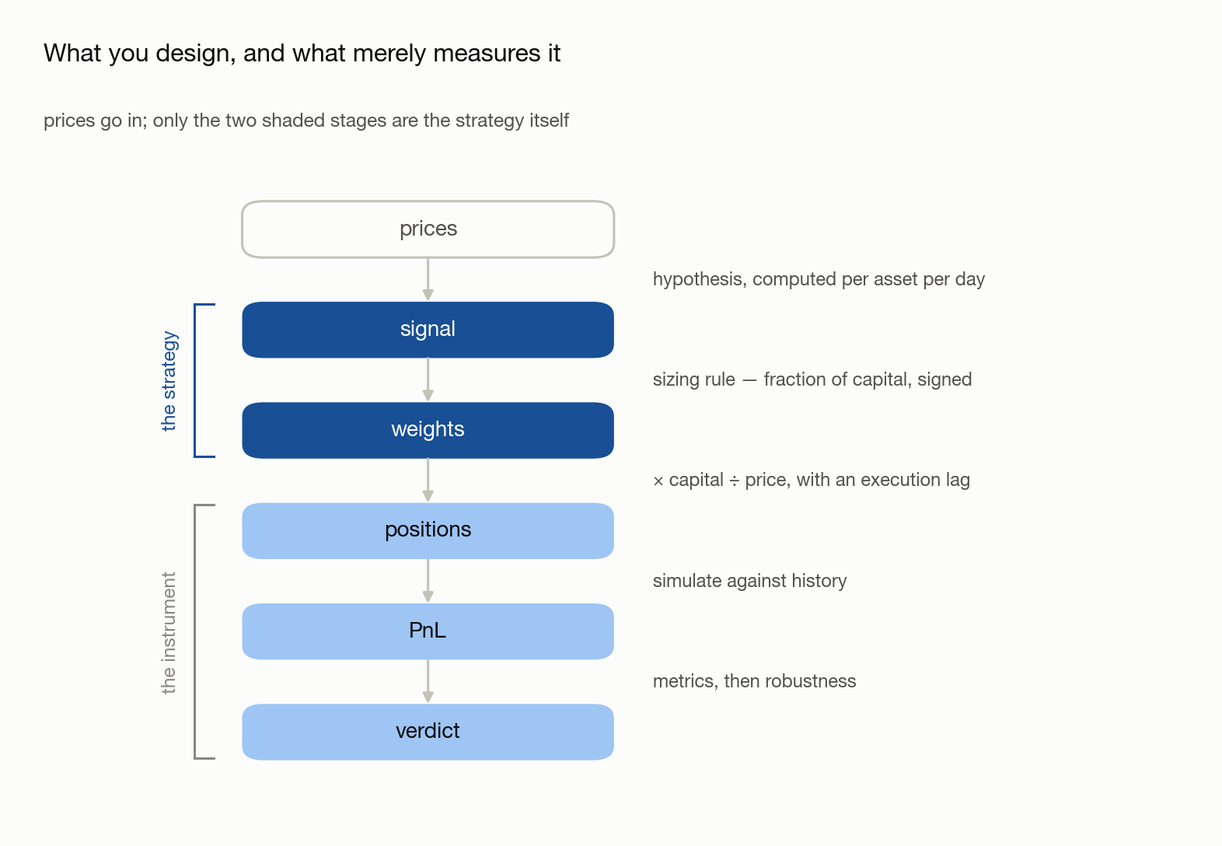
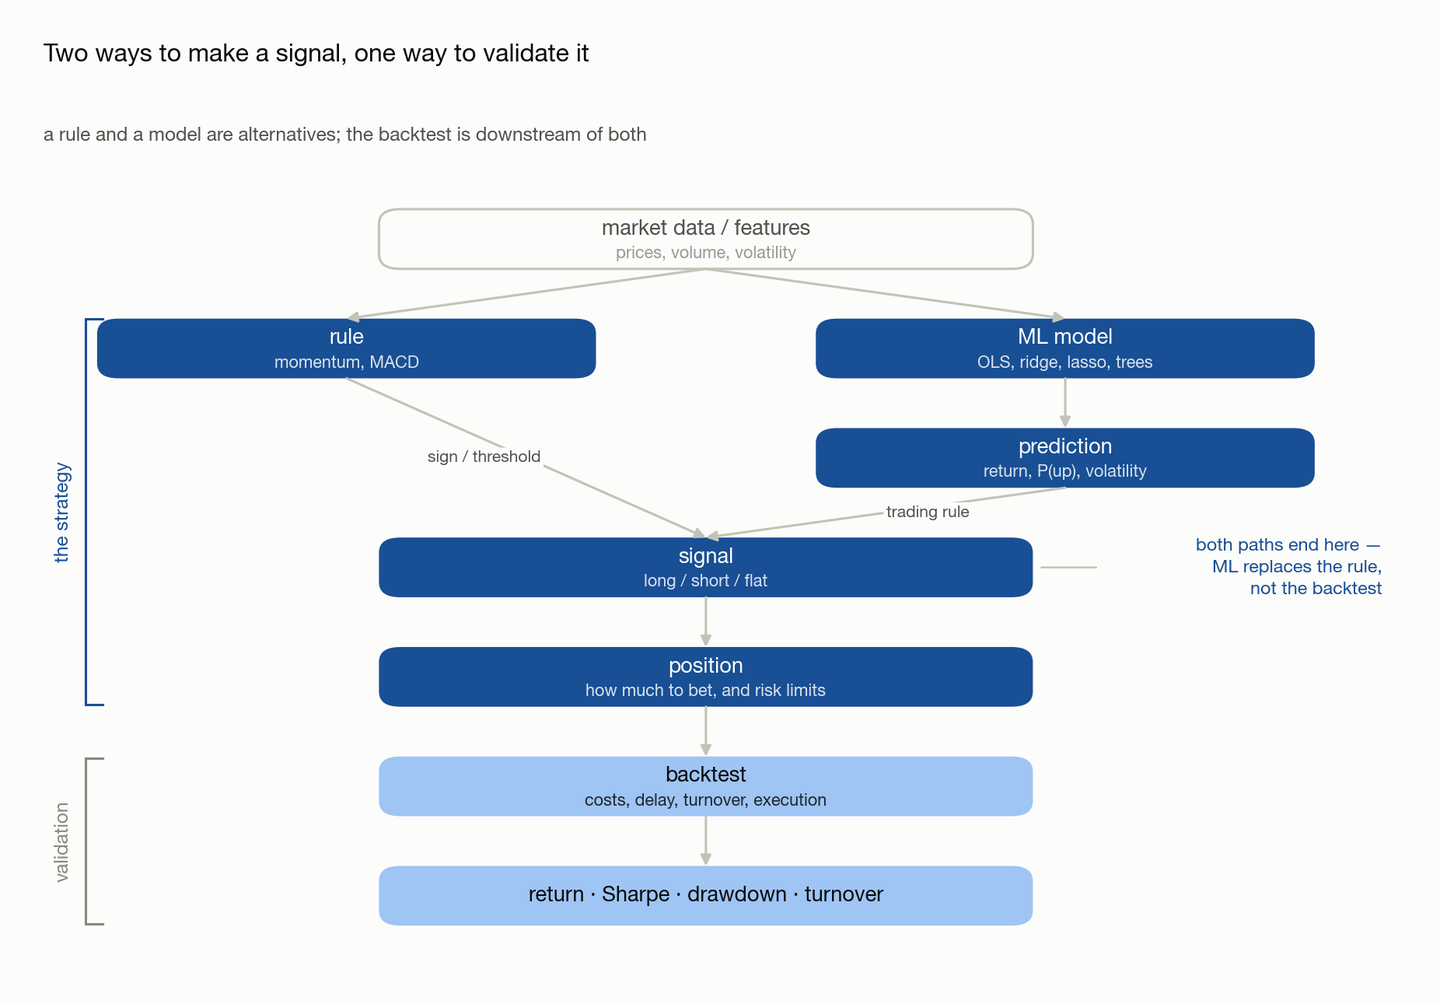
Make the prediction-to-signal chain the spine of 00-pipeline
A model generates signals; it does not validate them. That was the wrong
way round before, and it changes the shape of the pipeline: a rule and a
model are two paths to the same object, converging on one signal node,
with everything downstream shared.

Redraw the figure as that branch-and-converge, and lead the chapter with
the full chain -- features, rule or model, prediction, signal, position,
backtest, metrics -- as a table of what each layer does and outputs.

Separate prediction from signal explicitly. A prediction is a number
about the future and carries no instruction; a trading rule with a
threshold turns it into a direction, and that threshold is where costs
enter the decision without retraining anything. The layers stay
meaningful even when a classifier appears to emit a direction directly.

Add the four levels of validation -- model, signal, strategy, robustness
-- and state that each arrow between them loses candidates: test accuracy
is not economic value, which is not profit after costs, which is not
stability. Build order gains a final stage for trying a model, after the
rule-based baseline is understood well enough to be a baseline.

diff --git a/docs/figures/make_figures.py b/docs/figures/make_figures.py
@@ -390,68 +390,91 @@ def signal_kernels(mode):
 
 # ------------------------------------------------- fig: the strategy pipeline
 def strategy_pipeline(mode):
-    """00-pipeline -- what the strategy is, and what merely measures it.
+    """00-pipeline -- the two ways a signal gets made, and what validates it.
 
-    Schematic. The point is the boundary: the first two transforms are the
-    thing you design, the rest is the ruler you judge it with.
+    Schematic. The point is that a rule and an ML model are alternative ways
+    of producing the same object -- a signal -- and that the backtest sits
+    downstream of both, validating the whole strategy rather than the model.
     """
     t = THEMES[mode]
-    stages = ["prices", "signal", "weights", "positions", "PnL", "verdict"]
-    edges = ["hypothesis, computed per asset per day",
-             "sizing rule — fraction of capital, signed",
-             "× capital ÷ price, with an execution lag",
-             "simulate against history",
-             "metrics, then robustness"]
-    # prices are the input; the strategy is signal + sizing, the rest measures it
-    STRAT = (1, 2)
+    W, H = 4.6, 0.56                    # shared-spine box size
+    BW = 3.5                            # branch box width
+    CX, LX, RX = 4.7, 2.15, 7.25        # centre, left-branch, right-branch
 
-    fig, ax = plt.subplots(figsize=(7.6, 5.6))
+    #  (x, y, w, label, sublabel, kind)
+    nodes = [
+        (CX, 6.0, W,  "market data / features", "prices, volume, volatility", "input"),
+        (LX, 4.9, BW, "rule", "momentum, MACD", "strat"),
+        (RX, 4.9, BW, "ML model", "OLS, ridge, lasso, trees", "strat"),
+        (RX, 3.8, BW, "prediction", "return, P(up), volatility", "strat"),
+        (CX, 2.7, W,  "signal", "long / short / flat", "strat"),
+        (CX, 1.6, W,  "position", "how much to bet, and risk limits", "strat"),
+        (CX, 0.5, W,  "backtest", "costs, delay, turnover, execution", "instr"),
+        (CX, -0.6, W, "return · Sharpe · drawdown · turnover", "", "instr"),
+    ]
+    edges = [(0, 1, None), (0, 2, None), (1, 4, "sign / threshold"),
+             (2, 3, None), (3, 4, "trading rule"), (4, 5, None),
+             (5, 6, None), (6, 7, None)]
+
+    fig, ax = plt.subplots(figsize=(9.0, 6.6))
     fig.patch.set_facecolor(t["surface"])
     ax.set_facecolor(t["surface"])
-    ax.set_xlim(0, 7.6)
-    ax.set_ylim(-0.7, len(stages) - 0.3)
+    ax.set_xlim(0, 9.6)
+    ax.set_ylim(-1.25, 6.6)
     ax.axis("off")
 
-    box_x, box_w, box_h = 1.35, 2.45, 0.52
-    for i, name in enumerate(stages):
-        y = len(stages) - 1 - i
-        owned = STRAT[0] <= i <= STRAT[1]
-        face = t["ramp"][5] if owned else t["ramp"][1]
-        label = t["surface"] if owned else t["ink"]
-        patch = dict(facecolor=face, edgecolor="none")
-        if i == 0:                                    # input, not a stage you own
-            patch = dict(facecolor=t["surface"], edgecolor=t["baseline"], linewidth=1.1)
-            label = t["ink_secondary"]
+    face = {"input": None, "strat": t["ramp"][5], "instr": t["ramp"][1]}
+    for x, y, w, label, sub, kind in nodes:
+        if kind == "input":
+            style = dict(facecolor=t["surface"], edgecolor=t["baseline"], linewidth=1.1)
+            ink, subink = t["ink_secondary"], t["muted"]
+        else:
+            style = dict(facecolor=face[kind], edgecolor="none")
+            ink = t["surface"] if kind == "strat" else t["ink"]
+            subink = ink
         ax.add_patch(FancyBboxPatch(
-            (box_x, y - box_h / 2), box_w, box_h,
-            boxstyle="round,pad=0.02,rounding_size=0.14", zorder=3, **patch))
-        ax.text(box_x + box_w / 2, y, name, ha="center", va="center",
-                color=label, fontsize=10, fontweight="600", zorder=4)
+            (x - w / 2, y - H / 2), w, H,
+            boxstyle="round,pad=0.02,rounding_size=0.15", zorder=3, **style))
+        dy = 0.10 if sub else 0.0
+        ax.text(x, y + dy, label, ha="center", va="center",
+                color=ink, fontsize=9.8, fontweight="600", zorder=4)
+        if sub:
+            ax.text(x, y - 0.145, sub, ha="center", va="center",
+                    color=subink, fontsize=7.8, alpha=0.85, zorder=4)
 
-        if i < len(edges):
-            ax.annotate("", xy=(box_x + box_w / 2, y - 1 + box_h / 2 + 0.02),
-                        xytext=(box_x + box_w / 2, y - box_h / 2 - 0.02),
-                        arrowprops=dict(arrowstyle="-|>", color=t["baseline"],
-                                        linewidth=1.1, shrinkA=0, shrinkB=0))
-            ax.text(box_x + box_w + 0.28, y - 0.5, edges[i], ha="left", va="center",
-                    color=t["ink_secondary"], fontsize=8.5)
+    for a, b, note in edges:
+        xa, ya, _, _, _, _ = nodes[a]
+        xb, yb, _, _, _, _ = nodes[b]
+        ax.annotate("", xy=(xb, yb + H / 2 + 0.02), xytext=(xa, ya - H / 2 - 0.02),
+                    arrowprops=dict(arrowstyle="-|>", color=t["baseline"], linewidth=1.1,
+                                    shrinkA=0, shrinkB=0,
+                                    connectionstyle="arc3,rad=0"))
+        if note:
+            ax.text((xa + xb) / 2 + (0.30 if xb < xa else -0.30),
+                    (ya + yb) / 2, note, ha="center", va="center",
+                    color=t["ink_secondary"], fontsize=7.6, rotation=0,
+                    bbox=dict(boxstyle="round,pad=0.18", facecolor=t["surface"],
+                              edgecolor="none"), zorder=5)
 
-    # brackets: what you design, versus what measures it
-    def bracket(top_i, bot_i, text, colour):
-        y0 = len(stages) - 1 - bot_i - box_h / 2
-        y1 = len(stages) - 1 - top_i + box_h / 2
-        x = box_x - 0.34
-        ax.plot([x + 0.13, x, x, x + 0.13], [y1, y1, y0, y0],
-                color=colour, linewidth=1.1, solid_joinstyle="miter", zorder=3)
-        ax.text(x - 0.16, (y0 + y1) / 2, text, ha="center", va="center",
-                rotation=90, color=colour, fontsize=8.8, fontweight="600")
+    # the correction this figure exists to make
+    ax.text(9.5, 2.7, "both paths end here —\nML replaces the rule,\nnot the backtest",
+            ha="right", va="center", color=t["ramp"][5], fontsize=8.4,
+            fontweight="600", linespacing=1.5)
+    ax.annotate("", xy=(CX + W / 2 + 0.05, 2.7), xytext=(7.5, 2.7),
+                arrowprops=dict(arrowstyle="-", color=t["baseline"], linewidth=0.9))
 
-    bracket(STRAT[0], STRAT[1], "the strategy", t["ramp"][5])
-    bracket(STRAT[1] + 1, len(stages) - 1, "the instrument", t["muted"])
+    ax.plot([0.42, 0.30, 0.30, 0.42], [5.2, 5.2, 1.32, 1.32],
+            color=t["ramp"][5], linewidth=1.1, solid_joinstyle="miter", zorder=3)
+    ax.text(0.14, 3.26, "the strategy", ha="center", va="center", rotation=90,
+            color=t["ramp"][5], fontsize=8.8, fontweight="600")
+    ax.plot([0.42, 0.30, 0.30, 0.42], [0.78, 0.78, -0.88, -0.88],
+            color=t["muted"], linewidth=1.1, solid_joinstyle="miter", zorder=3)
+    ax.text(0.14, -0.05, "validation", ha="center", va="center", rotation=90,
+            color=t["muted"], fontsize=8.8, fontweight="600")
 
-    titles(ax, t, "What you design, and what merely measures it",
-           "prices go in; only the two shaded stages are the strategy itself")
-    fig.tight_layout(rect=(0, 0, 1, 0.93))
+    titles(ax, t, "Two ways to make a signal, one way to validate it",
+           "a rule and a model are alternatives; the backtest is downstream of both")
+    fig.tight_layout(rect=(0, 0, 1, 0.94))
     save(fig, t, f"strategy-pipeline-{mode}.png")
 
 

diff --git a/docs/00-pipeline.md b/docs/00-pipeline.md
@@ -1,91 +1,105 @@
 # 00 · How a Strategy Is Built
 
-> - **Answers:** what *strategy*, *signal*, *momentum* and *backtest* each mean, how they nest, and the order the pieces get built in.
+> - **Answers:** what *prediction*, *signal*, *position*, *strategy* and *backtest* each mean, how they chain, and where a model enters.
 > - **Prerequisites:** [01 · What Is a CTA Strategy](01-what-is-cta.md).
 > - **Read it when:** before [02](02-building-signals.md), and again whenever you lose track of which stage a problem belongs to.
 
-**Orientation, not a step in the sequence.** The numbered chapters each go deep on one stage; this 
+**Orientation, not a step in the sequence.** The numbered chapters each go deep on one stage; this
 maps them onto one another so you can see what is being built and why in that order.
 
 ---
 
-## 1. Four Words That Get Used Loosely
-
-**Definition (Signal).** A *signal* is a number computed for each asset on each day, expressing a
-hypothesis about that asset's future return. It ranks or scores — it does not say how much to buy.
-
-**Definition (Momentum).** *Momentum* is one particular hypothesis — that recent relative
-performance persists. It is therefore one **family of signals**, not a synonym for signal.
-
-**Definition (Sizing rule).** A *sizing rule* converts signals into **weights**: what fraction of
-capital each asset should carry, including sign.
-
-**Definition (Strategy).** A *strategy* is a signal plus a sizing rule — together, a complete
-mapping from observable history to a position in every market, every day.
-
-**Definition (Backtest).** A *backtest* is a simulation that applies a strategy's positions to
-historical prices and returns the profit and loss it would have produced. It is a **measuring
-instrument**, not part of the strategy.
-
-They nest like this — momentum sits three levels down, which is why "my momentum strategy lost
-money" is an ambiguous sentence:
-
-```text
-strategy
- ├── signal ─────────── momentum is one choice here
- │                      (others: carry, value, mean reversion)
- └── sizing rule ────── equal weight, risk parity, signal-proportional
-
-backtest                measures a strategy; interchangeable with it
- └── metrics ────────── Sharpe, drawdown, turnover
-```
-
-| Term                  | Answers                        | Output                         |
-| --------------------- | ------------------------------ | ------------------------------ |
-| **Signal**      | which assets look attractive   | one number per asset per day   |
-| **Sizing rule** | how much capital each one gets | one weight per asset per day   |
-| **Strategy**    | signal + sizing                | one position per asset per day |
-| **Backtest**    | what would this have earned    | a PnL series                   |
-| **Metrics**     | was that any good              | Sharpe, drawdown, turnover     |
-
-## 2. Why the Backtest Sits Outside the Strategy
-
-**Claim.** The backtester must not know which signal it is running.
-
-This is a design constraint, not a derivation. Two things follow from it, and both are the reason
-to accept it:
-
-- **You can change one without touching the other.** A new hypothesis means editing the signal
-  function alone; a fee model means editing the simulator alone. If the two are entangled, every
-  experiment risks breaking the measuring instrument, and you can no longer tell whether a result
-  moved because the idea changed or because the ruler did.
-- **It keeps the comparison honest.** Two signals judged by the *same* simulator differ only in the
-  signal. If each carries its own execution assumptions, the comparison silently measures those
-  assumptions too.
-
-**Note.** The practical test: if you cannot swap the signal by changing one function, the
-separation has leaked. In this project it holds — the multi-asset backtester is a loop over the
-single-asset one and contains no strategy logic at all. See
-[Backtest Prototype — Implementation Notes](../Backtest_prototype/Backtests.md).
-
-## 3. The Build Order
-
-Each stage consumes the previous stage's output. The strategy is the first half; the second half
-only measures it.
+## 1. The Chain, End to End
 
 <picture>
   <source media="(prefers-color-scheme: dark)" srcset="figures/strategy-pipeline-dark.png">
-  <img alt="A vertical pipeline of six stages. Prices feed a signal, the signal feeds weights, weights feed positions, positions feed a PnL series, and the PnL feeds metrics and then a robustness verdict. A bracket marks the signal and weights stages as the strategy — the part you design — and the positions, PnL and metrics stages as the measuring instrument" src="figures/strategy-pipeline-light.png">
+  <img alt="Market data and features feed two alternative paths. On the left a rule such as momentum or MACD produces a signal directly by sign or threshold. On the right a machine-learning model produces a prediction — future return, probability of a rise, or volatility — which a trading rule then converts into the same signal. Both paths converge on one signal node of long, short or flat, which feeds position sizing and risk limits, then the backtest with costs, delay and turnover, and finally return, Sharpe, drawdown and turnover. A bracket marks everything down to position as the strategy, and the backtest and metrics as validation" src="figures/strategy-pipeline-light.png">
 </picture>
 
-| # | Stage                                          | What happens                                                           | Chapter                               |
-| - | ---------------------------------------------- | ---------------------------------------------------------------------- | ------------------------------------- |
-| 0 | **Validate the data**                    | Confirm prices are continuous and corporate actions are adjusted       | [100](100-dataset.md)                  |
-| 1 | **State a hypothesis, compute a signal** | Turn an intuition into a number, then test that it carries information | [02](02-building-signals.md)           |
-| 2 | **Size the positions**                   | Signal → weights → dollars → shares                                 | [03](03-from-signal-to-position.md)    |
-| 3 | **Simulate**                             | Apply the positions to history with realistic timing                   | [04](04-understanding-backtesting.md)  |
-| 4 | **Evaluate**                             | Reduce the PnL series to numbers you can judge                         | [05](05-evaluating-performance.md)     |
-| 5 | **Attack the result**                    | Ask how much of it is signal and how much is search                    | [06](06-overfitting-and-robustness.md) |
+In one line: **a model finds the pattern, a prediction states the judgement, a signal picks the
+direction, a position sizes the bet, and the backtest asks whether any of it survives.**
+
+| Layer | What it does | Output | Example |
+| --- | --- | --- | --- |
+| **Features** | describe the market | prices, volume, volatility | 21-day realised vol |
+| **Rule** *or* **model** | encode or learn a regularity | a number | MACD; ridge regression |
+| **Prediction** | state a judgement about the future | expected return, P(up), expected vol | `+0.8%` next week |
+| **Signal** | turn that judgement into a direction | `+1` / `−1` / `0` | long if prediction > 1% |
+| **Position** | decide how much to bet | a weight, after risk limits | 30% of capital, long |
+| **Backtest** | apply it all to history under real constraints | a PnL series | after costs and delay |
+| **Metrics** | judge the PnL | Sharpe, drawdown, turnover, hit rate | Sharpe 0.4, −18% |
+
+## 2. Where a Model Enters, and Where It Does Not
+
+**Definition (Prediction).** A *prediction* is a model's estimate of a future quantity — next
+period's return, the probability of a rise, expected volatility. It is a number about the world,
+carrying no instruction.
+
+**Definition (Signal).** A *signal* is a decision: long, short, or flat. Converting a prediction
+into one requires a **trading rule** — a threshold, a sign, a ranking.
+
+```python
+prediction = model.predict(features)
+
+if   prediction >  0.01: signal =  1     # long
+elif prediction < -0.01: signal = -1     # short
+else:                    signal =  0     # flat
+```
+
+**Note (Why keep them apart).** The threshold is a choice, not a model output, and it is where
+transaction costs enter the decision: widening the dead band trades hit rate for turnover without
+retraining anything. Collapse prediction and signal into one step and that dial disappears.
+
+**Note (Even when a model outputs a direction).** Some models classify rather than regress, and
+appear to emit a signal directly. The layers still exist and are still worth separating:
+
+```text
+P(up) = 70%          prediction   — what the model believes
+long                 signal       — the direction that belief implies
+30% of capital       position     — how much that belief is worth betting
++0.4% after fees     result       — what the market paid for it
+```
+
+**Claim.** A model replaces the rule, not the backtest.
+
+Momentum, MACD and a gradient-boosted tree are alternative ways of producing the same object — a
+signal. They sit at the same point in the chain and are judged the same way. What follows the
+signal (sizing, costs, execution, metrics) is unchanged, which is precisely what makes a rule and a
+model comparable at all. If adopting a model required a different backtester, any performance
+difference would be uninterpretable.
+
+**Note.** So the constraint from the rule-based case survives intact: the backtester must not know
+where the signal came from. In this project it holds — the multi-asset backtester is a loop over
+the single-asset one and contains no strategy logic. See
+[Backtest Prototype — Implementation Notes](../Backtest_prototype/Backtests.md).
+
+## 3. Four Levels of Validation
+
+Each layer is tested on its own terms, and passing one says nothing about the next.
+
+| Level | Question | Typical measure | Where |
+| --- | --- | --- | --- |
+| **Model** | does the prediction track the outcome? | test IC, MSE, accuracy | out-of-sample only |
+| **Signal** | is the direction right, and tradeable? | bucket monotonicity, turnover | [02 § 4](02-building-signals.md) |
+| **Strategy** | does it survive real constraints? | Sharpe, drawdown, return after costs | [04](04-understanding-backtesting.md), [05](05-evaluating-performance.md) |
+| **Robustness** | does it persist? | across years, markets, parameters | [06](06-overfitting-and-robustness.md) |
+
+**Note (Each arrow loses candidates).** High test accuracy is not economic value; economic value is
+not profit after costs; profit after costs is not stability out of sample. A model can predict
+direction 55% of the time and still lose money, because the 45% it gets wrong are the larger moves,
+or because acting on it every day costs more than the edge.
+
+## 4. The Build Order
+
+| # | Stage | What happens | Chapter |
+| --- | --- | --- | --- |
+| 0 | **Validate the data** | Confirm prices are continuous and corporate actions are adjusted | [100](100-dataset.md) |
+| 1 | **State a hypothesis, compute a signal** | Turn an intuition into a number, then test that it carries information | [02](02-building-signals.md) |
+| 2 | **Size the positions** | Signal → weights → dollars → shares | [03](03-from-signal-to-position.md) |
+| 3 | **Simulate** | Apply the positions to history with realistic timing | [04](04-understanding-backtesting.md) |
+| 4 | **Evaluate** | Reduce the PnL series to numbers you can judge | [05](05-evaluating-performance.md) |
+| 5 | **Attack the result** | Ask how much of it is signal and how much is search | [06](06-overfitting-and-robustness.md) |
+| 6 | **Try a model** | Ask whether a learned prediction beats the rule — same sizing, same backtest | — |
 
 **Note (Stage 0 is not optional).** Every later stage inherits whatever is wrong with the data. An
 unadjusted split is the largest move in the sample by construction, so a trend follower reads it as
@@ -96,19 +110,24 @@ buckets by signal value and look at the mean forward return per bucket. It is ch
 backtest, and a monotone staircase is much harder to fool yourself with than a rising equity curve.
 A signal that fails here will not be rescued by anything downstream.
 
-## 4. Where Each Stage Fails
+**Note (Stage 6 comes last for a reason).** A model is only worth testing once the rule-based
+version, its costs and its failure modes are understood — otherwise there is no baseline to beat
+and no way to tell whether the model added value or merely added parameters.
+
+## 5. Where Each Stage Fails
 
 The stages fail in different ways, and the symptoms are easy to misattribute — the most common
 mistake is reading a data defect as a code bug.
 
-| Stage      | Failure                     | What you see                        | Where it is treated                   |
-| ---------- | --------------------------- | ----------------------------------- | ------------------------------------- |
-| Data       | Unadjusted corporate action | A vertical step in the equity curve | [100 § 1.1](100-dataset.md)           |
-| Signal     | No information              | Flat or non-monotone buckets        | [02 § 4](02-building-signals.md)      |
-| Sizing     | Exposure not what you think | Gross or net drifts from target     | [03](03-from-signal-to-position.md)    |
-| Simulation | Look-ahead bias             | Implausibly smooth, high Sharpe     | [04](04-understanding-backtesting.md)  |
-| Evaluation | One number hides the path   | Good Sharpe, unlivable drawdown     | [05](05-evaluating-performance.md)     |
-| Robustness | Parameters were searched    | Result vanishes out of sample       | [06](06-overfitting-and-robustness.md) |
+| Stage | Failure | What you see | Where it is treated |
+| --- | --- | --- | --- |
+| Data | Unadjusted corporate action | A vertical step in the equity curve | [100 § 1.1](100-dataset.md) |
+| Signal | No information | Flat or non-monotone buckets | [02 § 4](02-building-signals.md) |
+| Sizing | Exposure not what you think | Gross or net drifts from target | [03](03-from-signal-to-position.md) |
+| Simulation | Look-ahead bias | Implausibly smooth, high Sharpe | [04](04-understanding-backtesting.md) |
+| Evaluation | One number hides the path | Good Sharpe, unlivable drawdown | [05](05-evaluating-performance.md) |
+| Robustness | Parameters were searched | Result vanishes out of sample | [06](06-overfitting-and-robustness.md) |
+| Model | Fitted to the sample | Good IC in train, none in test | out-of-sample split |
 
 **Note.** The order is forced in one direction — you cannot evaluate before simulating, or simulate
 before sizing. The one shortcut is that stage 1 can be validated *without* stages 2–4, and it
@@ -118,13 +137,15 @@ should be.
 
 ## Common pitfalls
 
-| Belief                                         | Correction                                                                             |
-| ---------------------------------------------- | -------------------------------------------------------------------------------------- |
-| "Momentum is a strategy."                      | It is a hypothesis, so a family of signals. A strategy also needs a sizing rule.       |
-| "The backtest is part of the strategy."        | It is the instrument that measures one. Changing it changes your ruler, not your idea. |
-| "A signal is good if the backtest looks good." | Test the signal on its own first; an equity curve is far easier to rationalize.        |
-| "Bad data makes results look bad."             | An unadjusted split usually makes them look*better*.                                 |
-| "Fix the numbers at the end."                  | Every stage inherits the previous one's defects. Nothing downstream repairs stage 0.   |
+| Belief | Correction |
+| --- | --- |
+| "Momentum is a strategy." | It is a hypothesis, so a family of signals. A strategy also needs a sizing rule. |
+| "ML validates the signal." | ML *produces* signals. The backtest validates the whole strategy. |
+| "A prediction is a signal." | A prediction is a number about the future; a signal is a decision. A trading rule sits between them. |
+| "High accuracy means it makes money." | Not after costs, not if the errors are the big moves, not necessarily next year. |
+| "The backtest is part of the strategy." | It is the instrument that measures one. Changing it changes your ruler, not your idea. |
+| "A signal is good if the backtest looks good." | Test the signal on its own first; an equity curve is far easier to rationalize. |
+| "Bad data makes results look bad." | An unadjusted split usually makes them look *better*. |
 
 ## Next → [02 · Building Your Own Signal](02-building-signals.md)
 
@@ -134,8 +155,9 @@ exactly that.
 
 You should be able to explain:
 
-- [ ] Why momentum, signal and strategy are three different levels, not synonyms
-- [ ] Why the backtester must not know which signal it is running
+- [ ] Why prediction, signal and position are three different objects
+- [ ] Why a model replaces the rule but not the backtest
+- [ ] Why a high test accuracy is not yet a reason to trade
 - [ ] Which stage a vertical jump in the equity curve belongs to
 
 [← Index](00-index.md)
